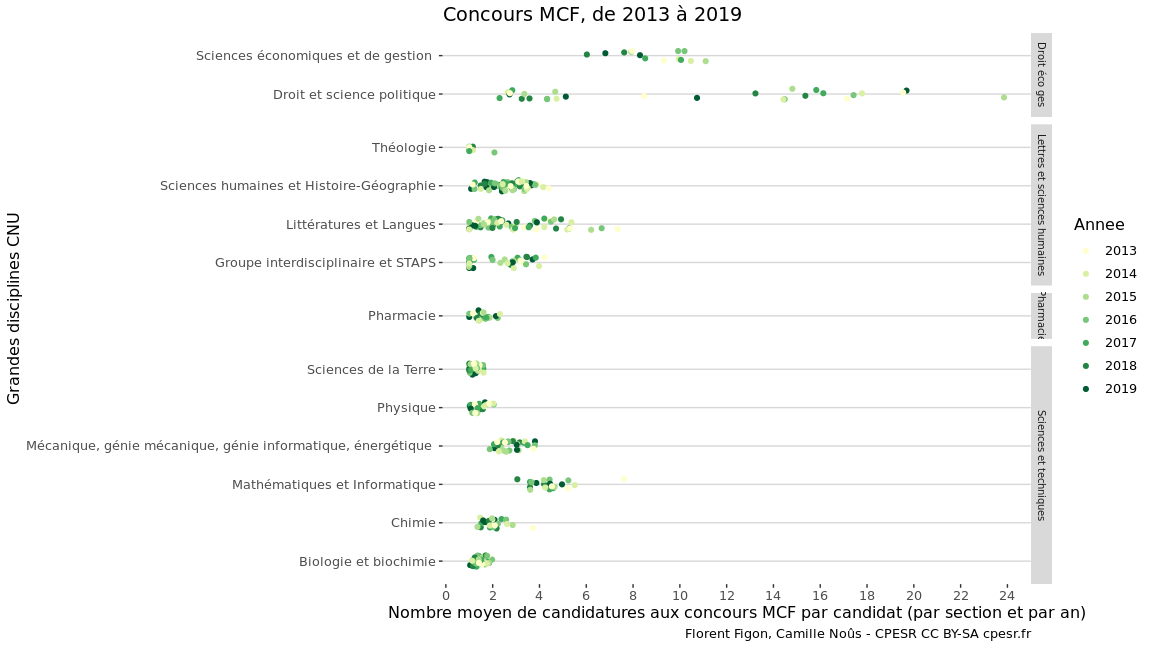
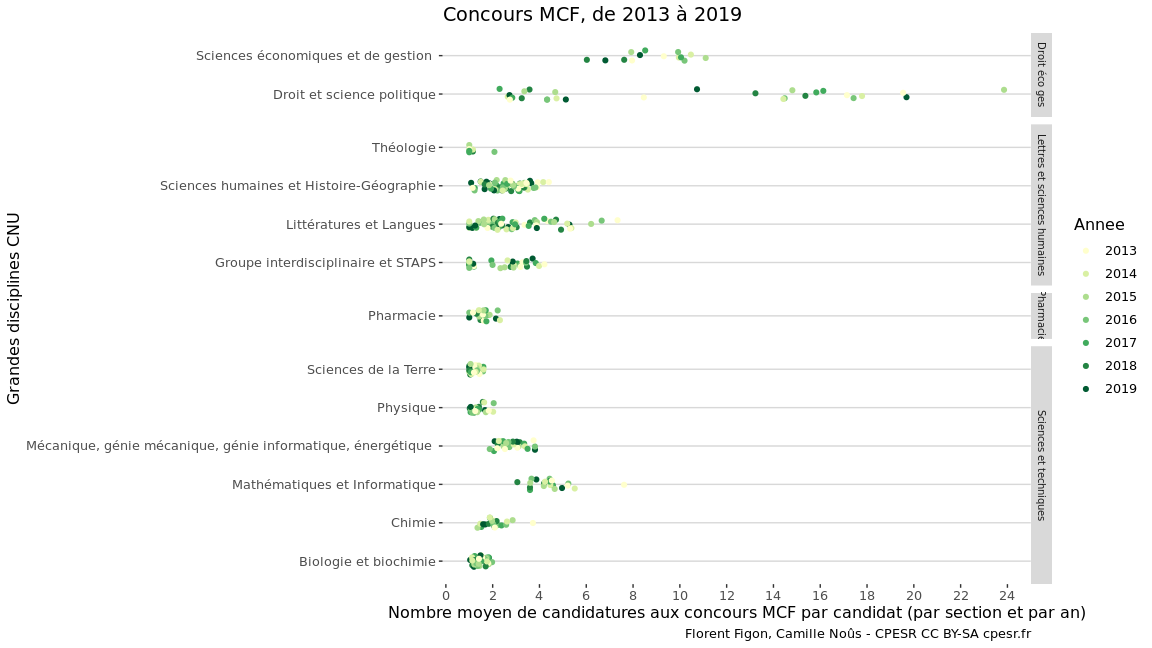
Focus DEG

diff --git a/ConcoursMCF/ConcoursMCF.md b/ConcoursMCF/ConcoursMCF.md
@@ -113,6 +113,10 @@ plein de candidatures dans certaines disciplines :
 
 ![](ConcoursMCF_files/figure-gfm/candidats.candidatures.postes-1.png)<!-- -->
 
+    ## Warning: Using alpha for a discrete variable is not advised.
+
+![](ConcoursMCF_files/figure-gfm/candidats.candidatures.postes.DEG-1.png)<!-- -->
+
 ![](ConcoursMCF_files/figure-gfm/candidatures.par.poste-1.png)<!-- -->
 
 ![](ConcoursMCF_files/figure-gfm/candidatures.par.poste.2-1.png)<!-- -->
